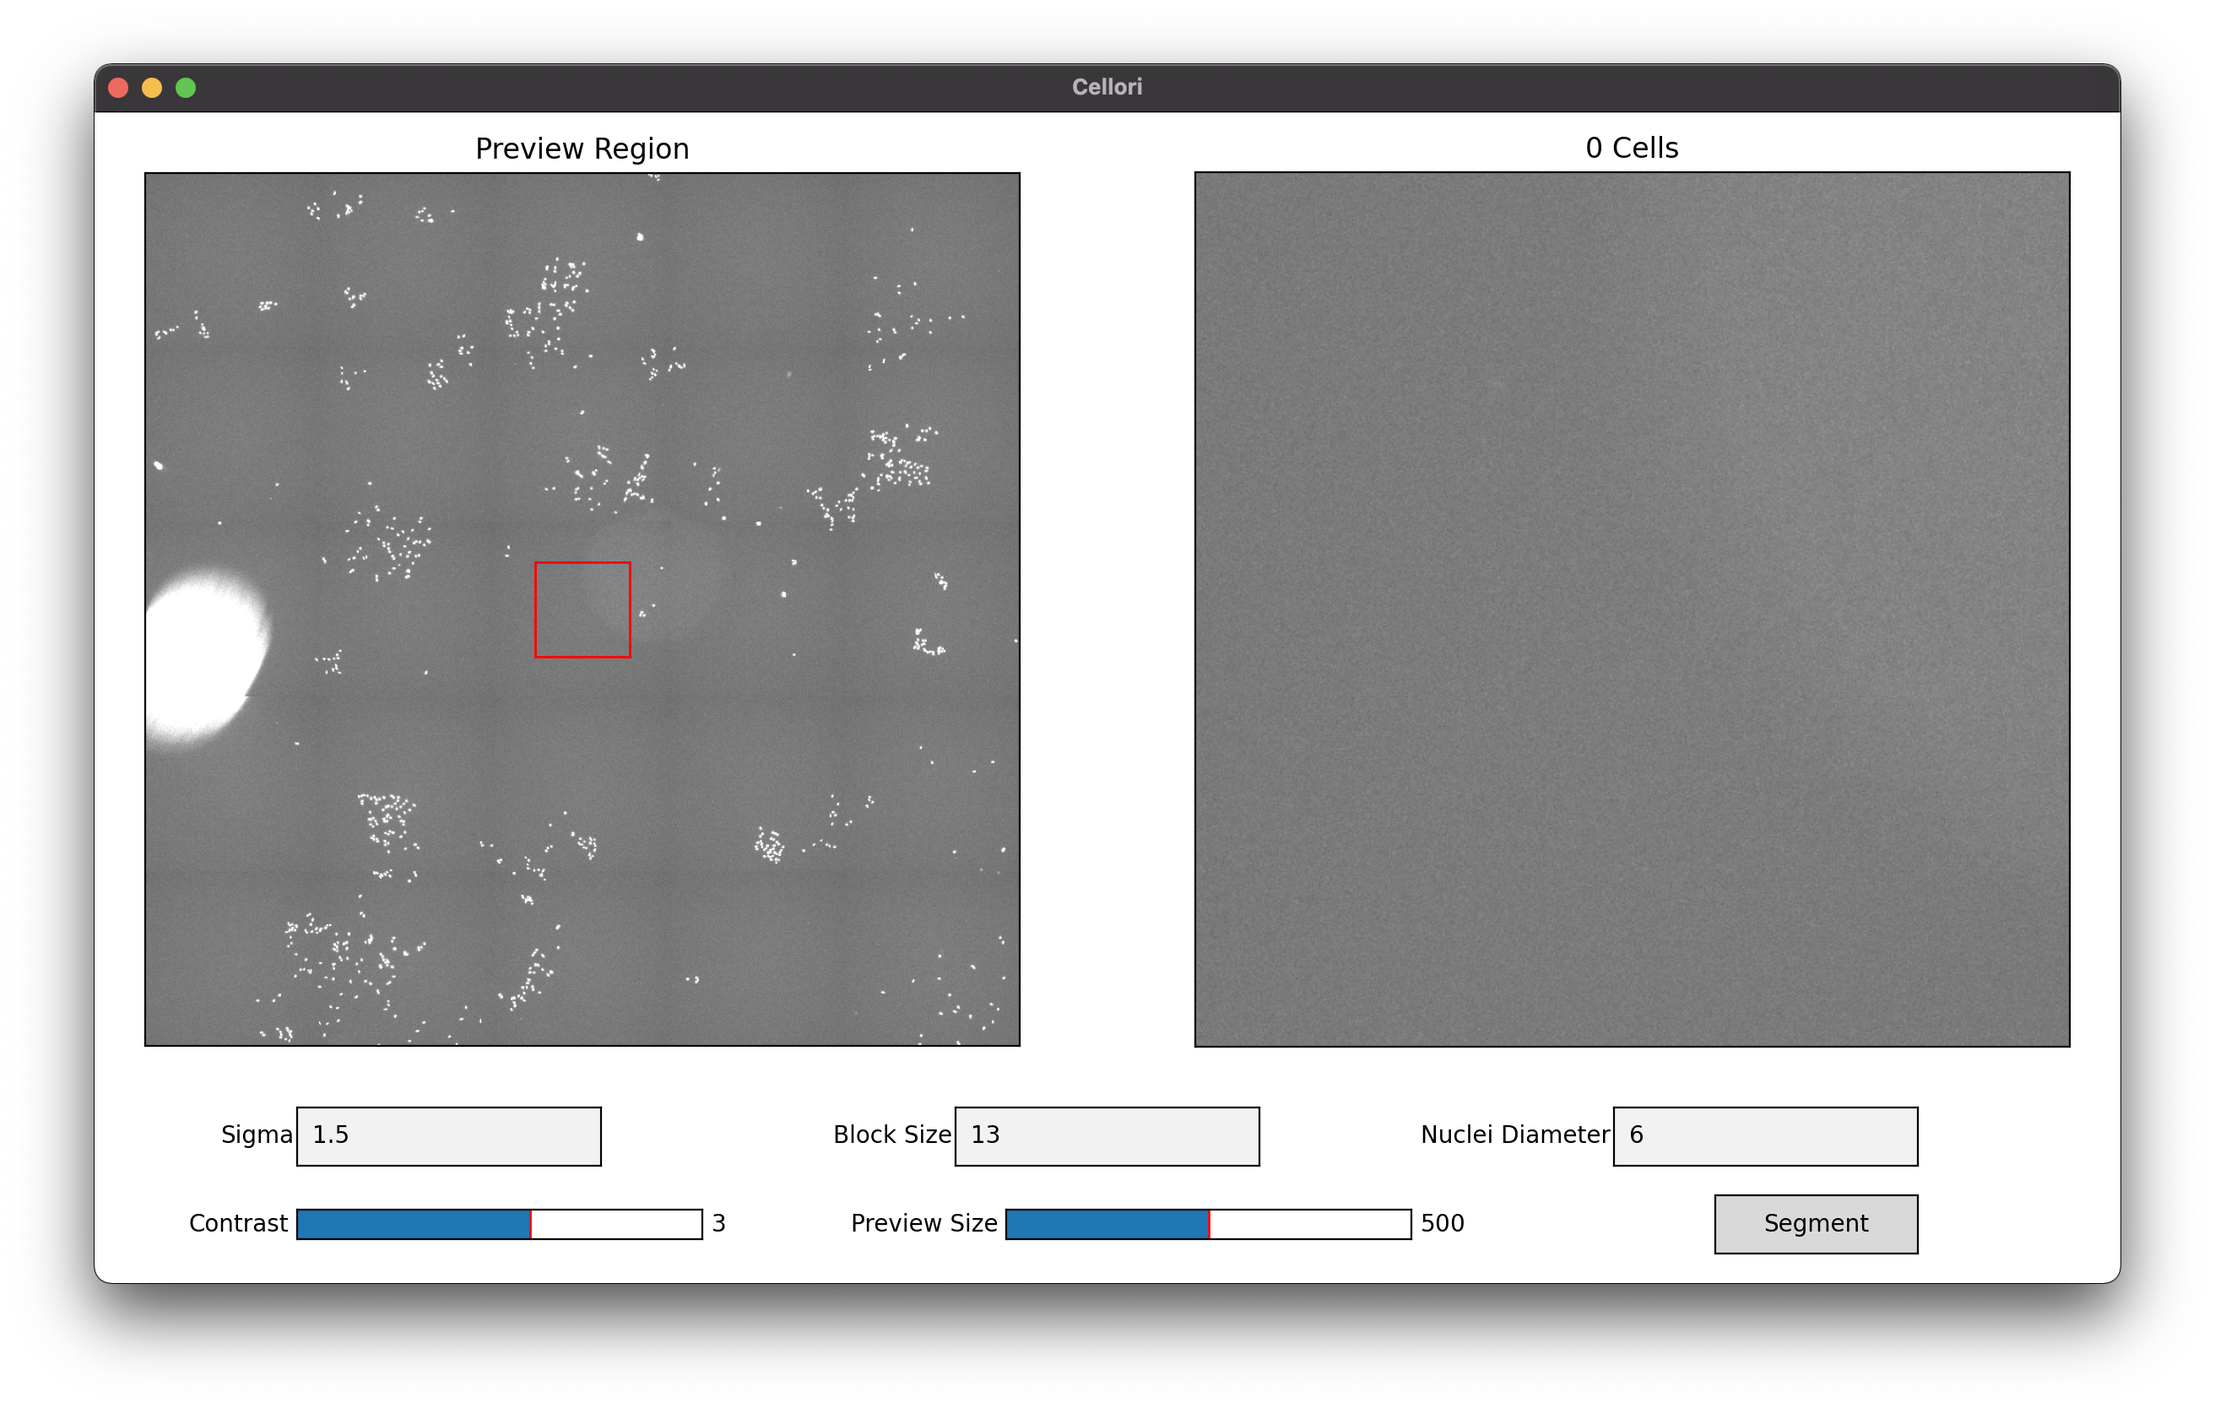
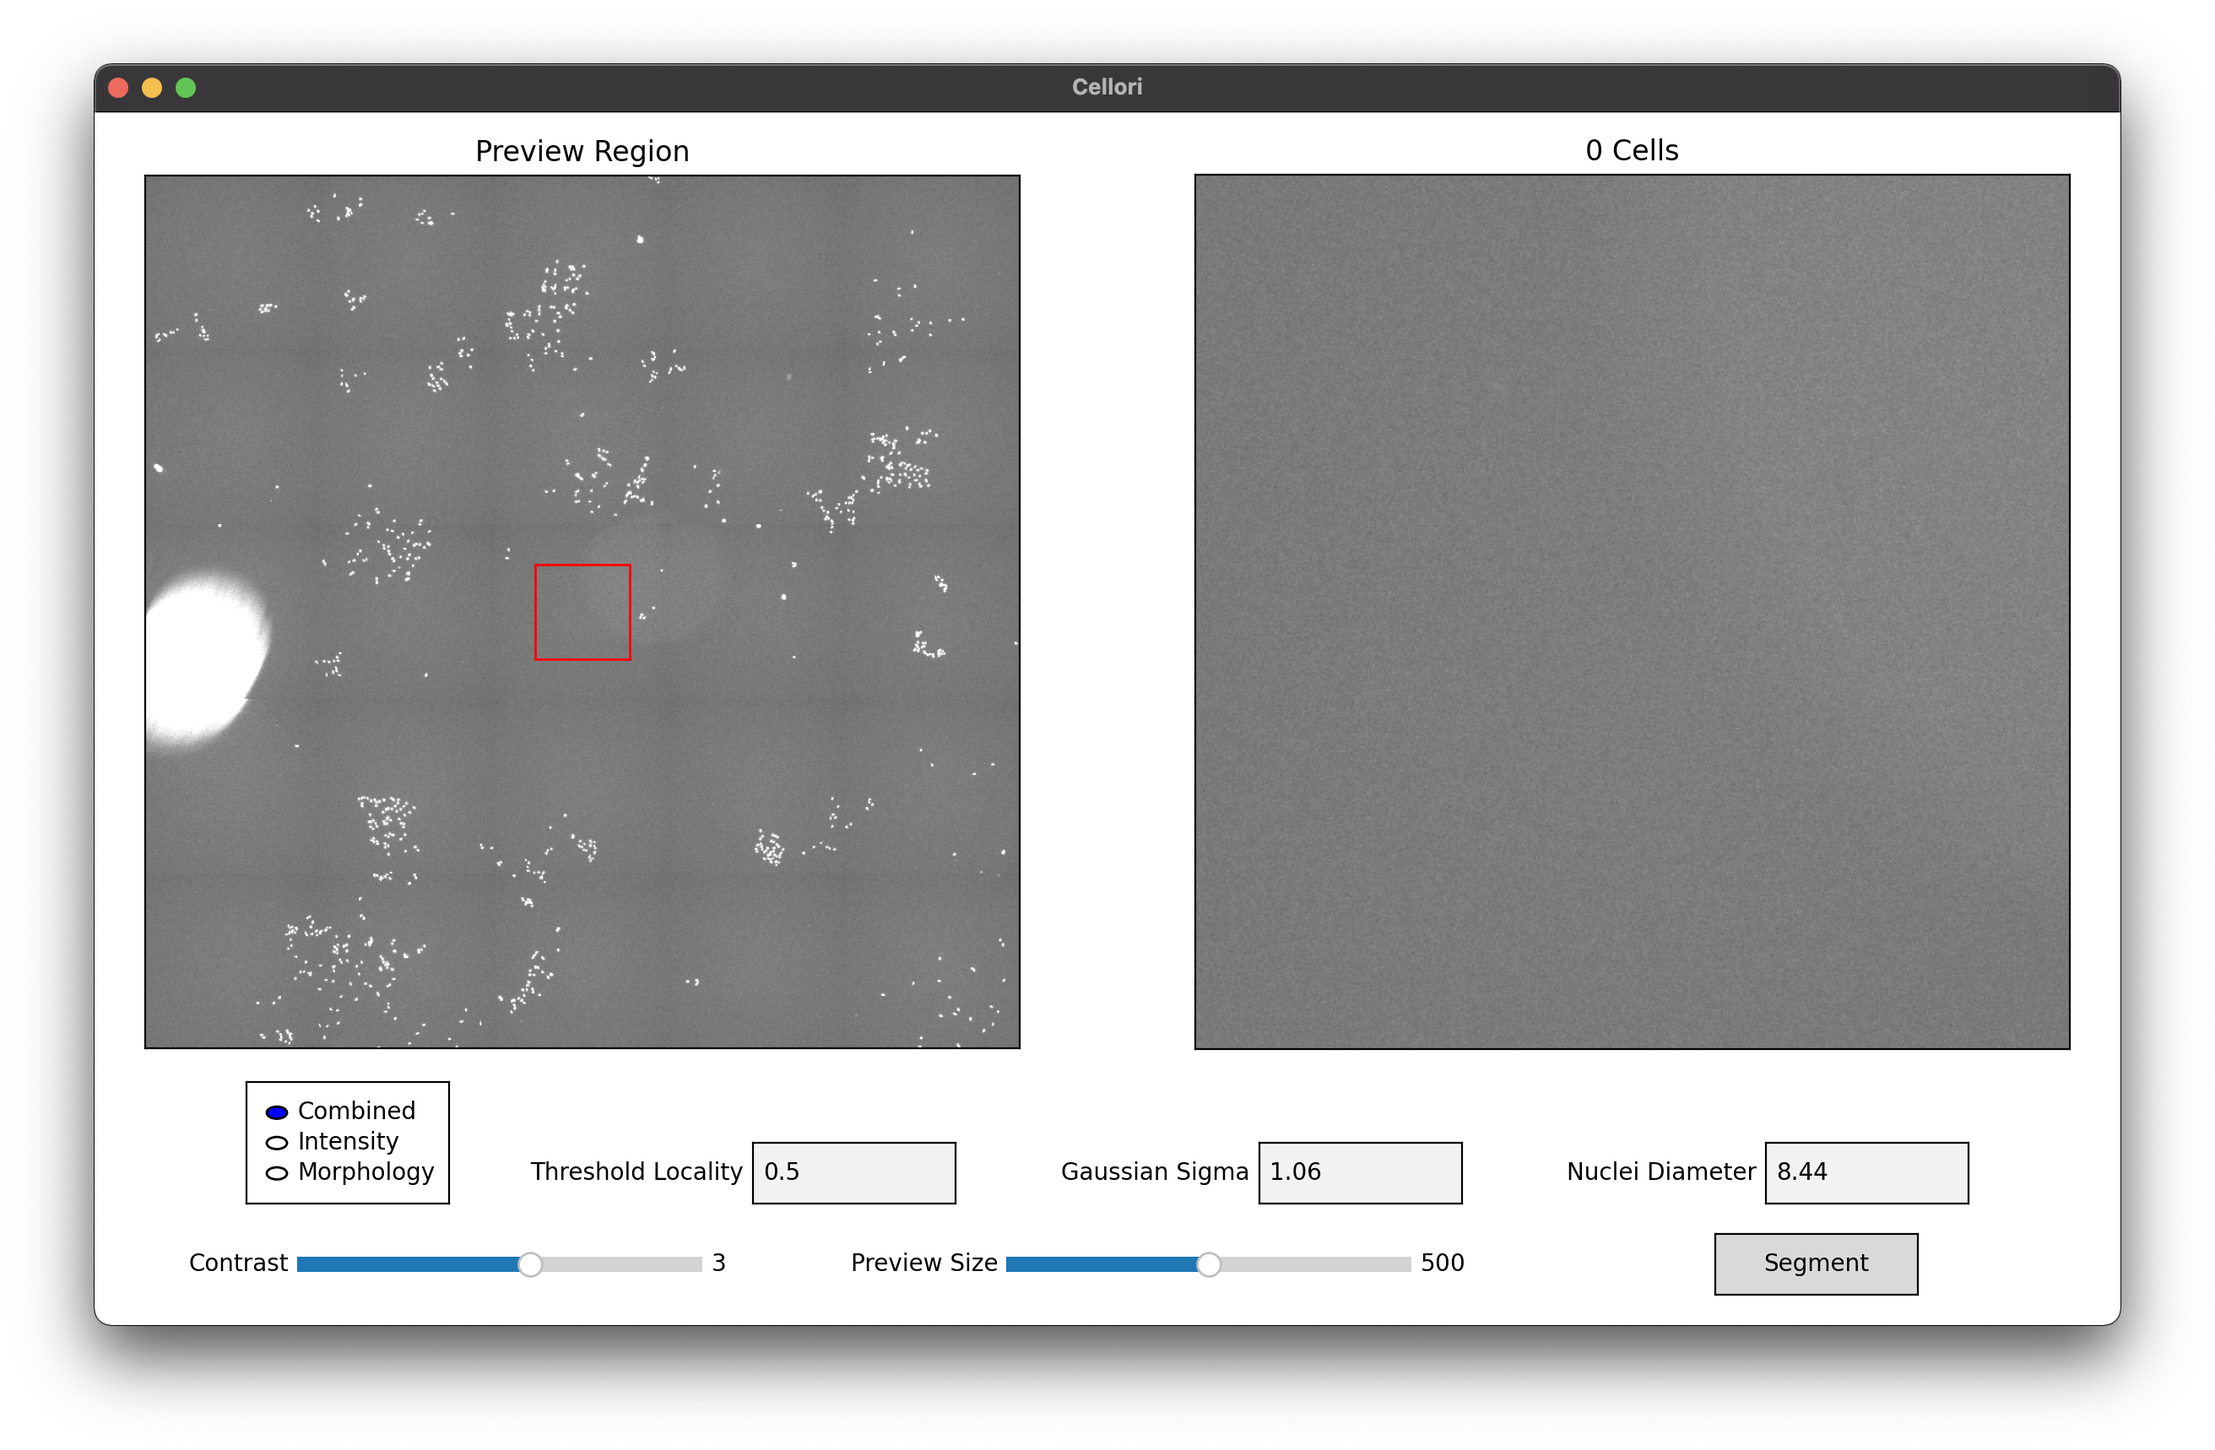
Update documentation for version 3.0.

diff --git a/docs/source/_static/styles.css b/docs/source/_static/styles.css
@@ -1,0 +1,3 @@
+.wy-nav-content {
+    max-width: 100% !important;
+}

diff --git a/docs/source/conf.py b/docs/source/conf.py
@@ -7,11 +7,11 @@ sys.path.insert(0, os.path.abspath('../..'))
 # -- Project information
 
 project = 'Cellori'
-copyright = '2021, William Niu'
+copyright = '2022, William Niu'
 author = 'William Niu'
 
-release = '2.4'
-version = '2.4'
+release = '3.0'
+version = '3.0'
 
 # -- General configuration
 
@@ -35,6 +35,10 @@ templates_path = ['_templates']
 # -- Options for HTML output
 
 html_theme = 'sphinx_rtd_theme'
+html_static_path = ['_static']
+html_css_files = [
+    'styles.css',
+]
 
 # -- Options for EPUB output
 epub_show_urls = 'footnote'
@@ -44,9 +48,12 @@ epub_show_urls = 'footnote'
 autodoc_member_order = 'bysource'
 autodoc_mock_imports = [
     'matplotlib',
+    'numba',
     'numpy',
     'cv2',
-    'pyqt5',
+    'pyside6',
+    'scipy',
+    'SimpleITK',
     'skimage',
     'stitchwell',
     'tifffile'

diff --git a/docs/source/usage.rst b/docs/source/usage.rst
@@ -17,7 +17,7 @@ Install Cellori from `PyPI <https://pypi.org/project/cellori/>`_.
 Guided Segmentation Tutorial
 ----------------
 
-1. Download the `sample image <https://github.com/SydShafferLab/Cellori/raw/main/docs/demo/wm989.tif>`_ (WM989 cells).
+1. Download the `sample image <https://github.com/zjniu/Cellori/raw/main/docs/demo/wm989.tif>`_ (WM989 cells).
 2. Create a Python script with the following lines of code. Make sure that wm989.tif is in your current working directory. If you are using your own image file, also refer to the :doc:`api` documentation for additional parameters that must be specified.
 
 .. code-block:: python
@@ -38,73 +38,89 @@ Guided Segmentation Tutorial
            :width: 1000
            :alt: GUI 2
            
-5. Automatic parameter detection should have already chosen values that work well, but they can be manually adjusted if desired. Here is a brief description of each parameter.
+5. Three methods are available for segmentation. Here is a brief description of each method.
 
-   * Sigma: Gaussian sigma used for background denoising.
-   * Block Size: Odd size of pixel neighborhood which is used for local thresholding (e.g., 3, 5, 7, ..., 21).
+   * Combined: Use a combined maxima metric that incorporates both intensity and morphology.
+   * Intensity: Use an intensity-only maxima metric.
+   * Morphology: Use a morphology-only maxima metric.
+
+6. Automatic parameter detection should have already chosen values that work well, but they can be manually adjusted if desired. Here is a brief description of each parameter.
+
+   * Threshold Locality: Fractional weight on local intensity used in thresholding. The value must be between 0 (global thresholding) and 1 (local thresholding).
+   * Gaussian Sigma: Gaussian sigma used for denoising.
    * Nuclei Diameter: Estimated lower bound of nuclei diameters. Any objects smaller than this threshold will not be considered for segmentation.
     
-6. We will first explore the efforts of the sigma parameter. A higher sigma results in more blurring, which reduces the issues of background noise and over-segmentation of single nuclei. If we look at segmentation when sigma is 0.5, notice that some single nuclei are being split up into two or even three separate nuclei. However, a sigma that is too high could fail to split clustered nuclei, or worse, miss nuclei altogether, as seen in the segmentation when sigma is 3.5.
+7. First, we will explore the effects of the threshold locality parameter. The optimal value for this parameter is highly image-dependent. If background intensity is mostly consistent throughout the entire image, then local thresholding may not be necessary, and any value will yield equally good results. Otherwise, setting a higher threshold locality may help to account for inconsistencies in background intensity by considering local thresholding more heavily. In this region of the image, threshold locality appears to have no effect on the segmentation.
 
 .. list-table::
    :widths: 33 33 33
    :header-rows: 1
 
-   * - Sigma = 0.5
-     - Sigma = 1.5
-     - Sigma = 3.5
-   * - 69 Cells
+   * - Threshold Locality = 0
+     - Threshold Locality = 0.5
+     - Threshold Locality = 1
+   * - 65 Cells
      - 65 Cells
-     - 53 Cells
-   * - .. image:: ../demo/sigma0.5.png
+     - 65 Cells
+   * - .. image:: ../demo/threshold_locality0.png
            :width: 300
-           :alt: Sigma = 0.5
+           :alt: Threshold Locality = 0
      - .. image:: ../demo/default.png
            :width: 300
-           :alt: Sigma = 1.5
-     - .. image:: ../demo/sigma3.5.png
+           :alt: Threshold Locality = 0.5
+     - .. image:: ../demo/threshold_locality1.png
            :width: 300
-           :alt: Sigma = 3.5
-
-7. Next, we will explore the efforts of the block size parameter. A small block size works well when cell density is low, in which you are guaranteed to capture both background and foreground in any small neighborhood, allowing for successful local thresholding. If the cell density is high, a larger block size may be necessary to sample enough background, especially when trying to capture cells with low to intermediate intensity. Here, our cells are neither too sparse nor too dense, so any value of above 7 works well. Notice that when the block size is too small, we may only capture some cells or none at all, as seen in the segmentation for block sizes 3 and 5. In general, use a block size that is larger than your estimated cell diameter.
-
-.. list-table::
-   :widths: 33 33 33
-   :header-rows: 1
-
-   * - Block Size = 3
-     - Block Size = 5
-     - Block Size = 13
-   * - 0 Cells
-     - 61 Cells
-     - 65 Cells
-   * - .. image:: ../demo/blocksize3.png
-           :width: 300
-           :alt: Block Size = 3
-     - .. image:: ../demo/blocksize5.png
-           :width: 300
-           :alt: Block Size = 5
-     - .. image:: ../demo/default.png
-           :width: 300
-           :alt: Block Size = 13
-
-8. It is usually safer to use a larger block size, but one that is too large essentially equates to taking a global threshold, which is the exact issue that local thresholding aims to solve. Notice that this image contains a large bright background spot. Increase the preview size using the slider and select it as the preview region.
+           :alt: Threshold Locality = 1
+           
+8. However, notice that this image contains a large bright background spot. Increase the preview size using the slider and select it as the preview region.
 
 .. image:: ../demo/gui3.png
            :width: 1000
            :alt: GUI 3
            
-9. If we increase the block size to 25, many dots appear near the edge of the bright spot. As we lose locality with increasing block sizes, it becomes more difficult to determine whether this spot is an actual cell or just abnormally bright background.
+9. At a threshold locality of 0, which is equivalent to taking a global threshold, noise within the bright spot is being picked up as cells. Increasing the threshold locality to 0.5 helps to solve this issue. Further increasing the threshold locality to 1 completely eliminates all noise. In general, increasing the threshold locality will decrease the number of cells segmented.
 
-.. image:: ../demo/gui4.png
-           :width: 1000
-           :alt: GUI 4
-           
-10. Even at a block size of 13, you may have noticed a few dots being marked within the bright spot. Returning to a block size of 13, we can increase the contrast using the slider and zoom in on a smaller region. We will observe three cells within the bright spot that would otherwise be missed using a traditional global thresholding method.
+.. list-table::
+   :widths: 33 33 33
+   :header-rows: 1
 
-.. image:: ../demo/gui5.png
-           :width: 1000
-           :alt: GUI 5
+   * - Threshold Locality = 0
+     - Threshold Locality = 0.5
+     - Threshold Locality = 1
+   * - 27 Cells
+     - 19 Cells
+     - 17 Cells
+   * - .. image:: ../demo/bright_spot_threshold_locality0.png
+           :width: 300
+           :alt: Threshold Locality = 0
+     - .. image:: ../demo/bright_spot_threshold_locality0.5.png
+           :width: 300
+           :alt: Threshold Locality = 0.5
+     - .. image:: ../demo/bright_spot_threshold_locality1.png
+           :width: 300
+           :alt: Threshold Locality = 1
+    
+10. Next, we will explore the effects of the Gaussian sigma parameter. A higher sigma results in more blurring, which reduces the issues of noise and over-segmentation of single nuclei. If we look at segmentation when sigma is 0 (essentially no filtering), notice that a single nuclei is incorrectly being split up into two. However, a sigma that is too high could fail to split clustered nuclei, as seen in the segmentation when sigma is 5, or worse, miss nuclei altogether.
+
+.. list-table::
+   :widths: 33 33 33
+   :header-rows: 1
+
+   * - Sigma = 0
+     - Sigma = 1.06
+     - Sigma = 5
+   * - 66 Cells
+     - 65 Cells
+     - 62 Cells
+   * - .. image:: ../demo/sigma0.png
+           :width: 300
+           :alt: Sigma = 0
+     - .. image:: ../demo/default.png
+           :width: 300
+           :alt: Sigma = 1.06
+     - .. image:: ../demo/sigma5.png
+           :width: 300
+           :alt: Sigma = 5
            
 11. Finally, we will explore the efforts of the nuclei diameter parameter. This is perhaps the most basic out of the three parameters, as it simply disregards all objects smaller than the specified radii. While basic, selecting the wrong value for this parameter may have devastating effects.
 
@@ -113,18 +129,18 @@ Guided Segmentation Tutorial
    :header-rows: 1
 
    * - Nuclei Diameter = 1
-     - Nuclei Diameter = 6
+     - Nuclei Diameter = 8.44
      - Nuclei Diameter = 15
-   * - 8116 Cells
+   * - 228 Cells
      - 65 Cells
-     - 12 Cells
-   * - .. image:: ../demo/nucleidiameter1.png
+     - 24 Cells
+   * - .. image:: ../demo/nuclei_diameter1.png
            :width: 300
            :alt: Nuclei Diameter = 1
      - .. image:: ../demo/default.png
            :width: 300
-           :alt: Nuclei Diameter = 6
-     - .. image:: ../demo/nucleidiameter15.png
+           :alt: Nuclei Diameter = 8.44
+     - .. image:: ../demo/nuclei_diameter15.png
            :width: 300
            :alt: Nuclei Diameter = 15
 
@@ -146,14 +162,18 @@ Guided Segmentation Tutorial
     * XY Coordinates: array of size (N, 2) with the locations of cell nuclei as coordinates for plotting on standard XY axes.
     * Array Indices: array of size (N, 2) with the locations of cell nuclei as indices of the original image array.
 
-15. These same segmentation outputs can be achieved without the GUI using built-in command-line functions. For more information about these functions, specifically their parameters and outputs, check out the :doc:`api` documentation.
+15. These same segmentation outputs can be achieved without the GUI using built-in command-line functions. For more information about these functions and other helper functions for post-processing, specifically their parameters and outputs, check out the :doc:`api` documentation.
 
 .. code-block:: python
 
-    from cellori import Cellori
+    from cellori import Cellori, utils
 
-    # Use automatic parameter detection.
-    masks,coords = Cellori('wm989.tif').segment()
+    # Segment using automatic parameter detection.
+    masks, coords, image = Cellori('wm989.tif').segment()
     
-    # Use custom parameters.
-    masks,coords = Cellori('wm989.tif').segment(sigma=1.5,block_size=13,nuclei_diameter=6)
+    # Segment using custom parameters.
+    masks, coords, image = Cellori('wm989.tif').segment(segmentation_mode='combined', threshold_locality=0.5, sigma=1.06, nuclei_diameter=8.44)
+    
+    # Create segmentation overlay.
+    overlay = utils.overlay_segmentation(image, masks)
+    

diff --git a/README.md b/README.md
@@ -55,7 +55,7 @@ pip install cellori
 The built-in GUI is the easiest way to use the Cellori algorithm. Below is a short demo to get you started. For a more comprehensive walk-through, follow our [guided segmentation tutorial](https://cellori.readthedocs.io/en/latest/usage.html#tutorial). GUI-independent functions for obtaining masks and coordinates are also available, which you can learn more about [here](https://cellori.readthedocs.io/en/latest/api.html).
 
 ### GUI Demo
-1. Download the [sample image](https://github.com/SydShafferLab/Cellori/raw/main/docs/demo/wm989.tif) (WM989 cells).
+1. Download the [sample image](https://github.com/zjniu/Cellori/raw/main/docs/demo/wm989.tif) (WM989 cells).
 2. Create a Python script with the following lines of code. Make sure that `wm989.tif` is in your current working directory.
 ```python
 from cellori import Cellori
@@ -75,3 +75,16 @@ Cellori('wm989.tif').gui()
     * Masks: labeled array of the same size as the original image with background pixels as 0 and cells as 1, 2, 3, ..., N.
     * XY Coordinates: array of size (N, 2) with the locations of cell nuclei as coordinates for plotting on standard XY axes.
     * Array Indices: array of size (N, 2) with the locations of cell nuclei as indices of the original image array.
+7. These same segmentation outputs can be achieved without the GUI using built-in command-line functions. For more information about these functions and other helper functions for post-processing, specifically their parameters and outputs, check out the [Cellori API](https://cellori.readthedocs.io/en/latest/api.html) documentation.
+```python
+from cellori import Cellori, utils
+
+# Segment using automatic parameter detection.
+masks, coords, image = Cellori('wm989.tif').segment()
+
+# Segment using custom parameters.
+masks, coords, image = Cellori('wm989.tif').segment(segmentation_mode='combined', threshold_locality=0.5, sigma=1.06, nuclei_diameter=8.44)
+
+# Create segmentation overlay.
+overlay = utils.overlay_segmentation(image, masks)
+```

diff --git a/docs/source/index.rst b/docs/source/index.rst
@@ -1,7 +1,7 @@
 Cellori
 ===================================
 
-**Cellori** (Cell Origin) is a fast and robust intensity-based algorithm for clustered nuclei segmentation in fluorescence microscopy images. It segments nuclei by applying a Gaussian filter to smoothen out background noise, calculating local thresholds to isolate the foreground, and splitting clustered nuclei via local maxima analysis. Masks are obtained using the watershed algorithm.
+**Cellori** (Cell Origin) is a fast and robust algorithm for clustered nuclei segmentation in fluorescence microscopy images. It segments nuclei by calculating local thresholds to isolate the foreground, splitting clustered nuclei via local maxima analysis, and then merge correcting regions to account for potential oversegmentation. Masks are obtained using the watershed algorithm.
 
 For a comprehensive walk-through, follow our :ref:`tutorial`.
 

diff --git a/docs/source/api.rst b/docs/source/api.rst
@@ -1,11 +1,23 @@
 Cellori API
 =====================
 
+Cellori Class
+~~~~~~~~~~~~~~~~~~~~~
+
 .. automodule:: cellori.cellori
 
 Cellori supports both GUI and command line options for nuclei segmentation.
 
 .. autoclass:: cellori.cellori.Cellori
+    :members:
+    :undoc-members:
+    :show-inheritance:
+    :private-members:
+
+Helper Functions
+~~~~~~~~~~~~~~~~~~~~~
+
+.. automodule:: cellori.utils
     :members:
     :undoc-members:
     :show-inheritance:
